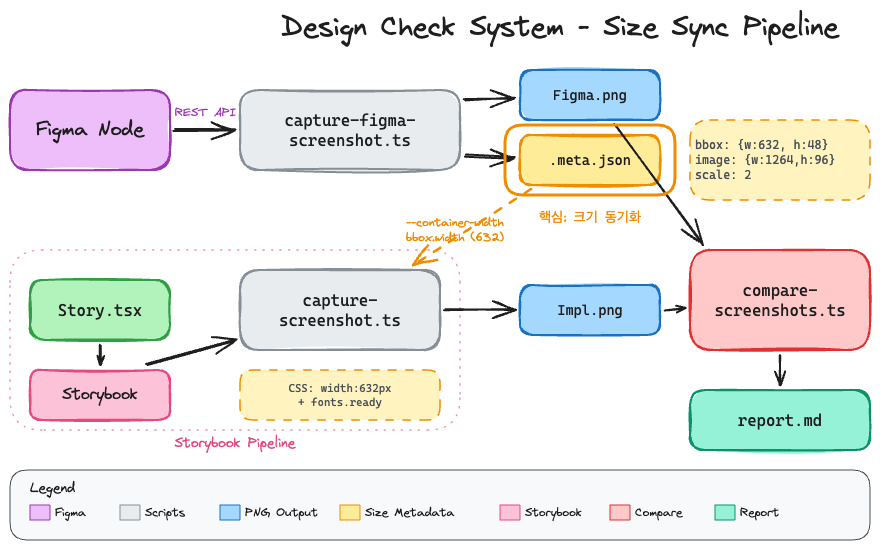
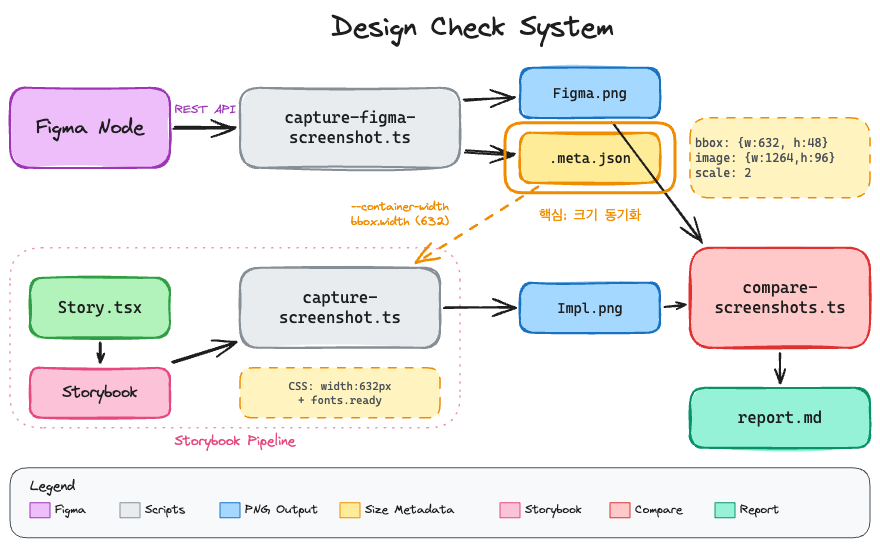
vault backup: 2026-01-29 11:26:35

diff --git a/Exem/01-Projects/디자인-검증-자동화/아키텍쳐.md b/Exem/01-Projects/디자인-검증-자동화/아키텍쳐.md
@@ -5,7 +5,7 @@ tags: [excalidraw]
 # Excalidraw Data
 
 ## Text Elements
-Design Check System - Size Sync Pipeline ^aQiTBVYx
+Design Check System ^aQiTBVYx
 
 Figma Node ^zcXcb1BW
 
@@ -65,142 +65,144 @@ Report ^uX2YAAx5
 %%
 ## Drawing
 ```compressed-json
[2 lines of base64/hex data omitted]
 
[2 lines of base64/hex data omitted]
 
[2 lines of base64/hex data omitted]
 
[2 lines of base64/hex data omitted]
 
[2 lines of base64/hex data omitted]
 
[2 lines of base64/hex data omitted]
 
[2 lines of base64/hex data omitted]
 
[2 lines of base64/hex data omitted]
 
[2 lines of base64/hex data omitted]
 
[2 lines of base64/hex data omitted]
 
[2 lines of base64/hex data omitted]
 
[2 lines of base64/hex data omitted]
 
[2 lines of base64/hex data omitted]
 
[2 lines of base64/hex data omitted]
 
[2 lines of base64/hex data omitted]
 
[2 lines of base64/hex data omitted]
 
[2 lines of base64/hex data omitted]
 
[2 lines of base64/hex data omitted]
 
[2 lines of base64/hex data omitted]
 
[2 lines of base64/hex data omitted]
 
[2 lines of base64/hex data omitted]
 
[2 lines of base64/hex data omitted]
 
[2 lines of base64/hex data omitted]
 
[2 lines of base64/hex data omitted]
 
[2 lines of base64/hex data omitted]
 
[2 lines of base64/hex data omitted]
 
[2 lines of base64/hex data omitted]
 
[2 lines of base64/hex data omitted]
 
[2 lines of base64/hex data omitted]
 
[2 lines of base64/hex data omitted]
 
[2 lines of base64/hex data omitted]
 
[2 lines of base64/hex data omitted]
 
[2 lines of base64/hex data omitted]
 
[2 lines of base64/hex data omitted]
 
[2 lines of base64/hex data omitted]
 
[2 lines of base64/hex data omitted]
 
[2 lines of base64/hex data omitted]
 
[2 lines of base64/hex data omitted]
 
[2 lines of base64/hex data omitted]
 
[2 lines of base64/hex data omitted]
 
[2 lines of base64/hex data omitted]
 
[2 lines of base64/hex data omitted]
 
[2 lines of base64/hex data omitted]
 
[2 lines of base64/hex data omitted]
 
[2 lines of base64/hex data omitted]
 
[2 lines of base64/hex data omitted]
 
[2 lines of base64/hex data omitted]
 
[2 lines of base64/hex data omitted]
 
[2 lines of base64/hex data omitted]
 
[2 lines of base64/hex data omitted]
 
[2 lines of base64/hex data omitted]
 
[2 lines of base64/hex data omitted]
 
[2 lines of base64/hex data omitted]
 
[2 lines of base64/hex data omitted]
 
[2 lines of base64/hex data omitted]
 
[2 lines of base64/hex data omitted]
 
[2 lines of base64/hex data omitted]
 
[2 lines of base64/hex data omitted]
 
[2 lines of base64/hex data omitted]
 
[2 lines of base64/hex data omitted]
 
[2 lines of base64/hex data omitted]
 
[2 lines of base64/hex data omitted]
 
[2 lines of base64/hex data omitted]
 
[2 lines of base64/hex data omitted]
 
[2 lines of base64/hex data omitted]
 
[2 lines of base64/hex data omitted]
 
[2 lines of base64/hex data omitted]
 
[2 lines of base64/hex data omitted]
 
-QjTE/dsrEEGghKwhAGrDYQdHXAASYb2XCA9YY1AMggAA
[1 lines of base64/hex data omitted]
+
[1 lines of base64/hex data omitted]
 ```
 %%
